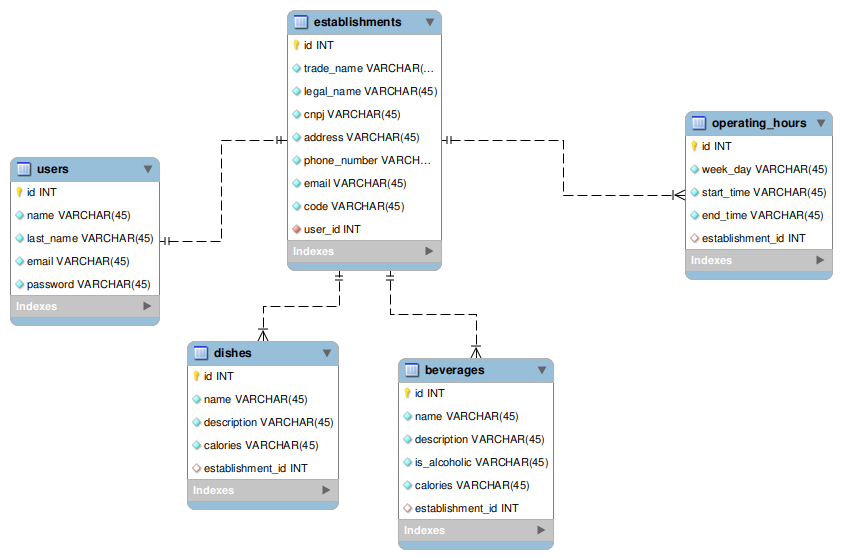
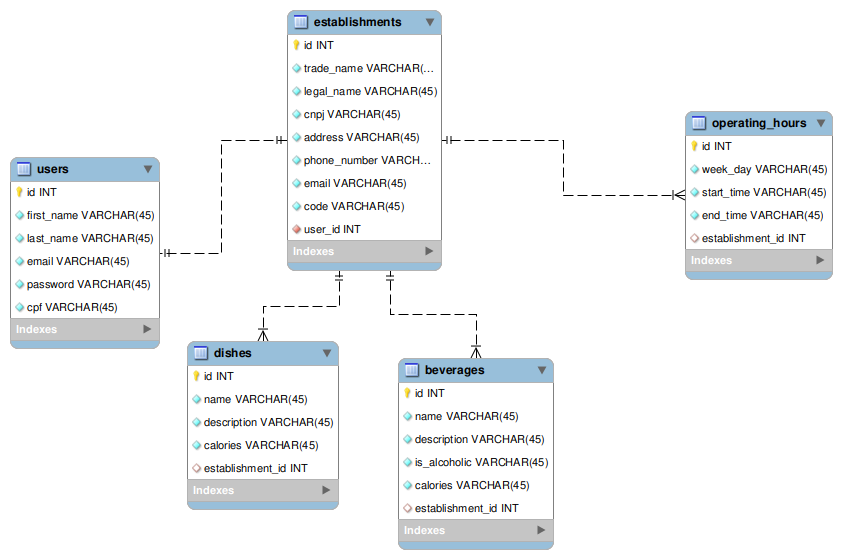
feat: cria arquivo de configuração de locale

Changed region(s): [[0.0, 0.517, 0.2162, 0.6386], [0.0309, 0.3649, 0.1853, 0.3953], [0.1853, 0.4258, 0.2162, 0.4562]]

diff --git a/spec/system/users/user_sign_in_spec.rb b/spec/system/users/user_sign_in_spec.rb
@@ -1,0 +1,16 @@
+require 'rails_helper'
+
+describe 'Usuário acessa página de login' do
+  it 'e faz login com sucesso' do
+    # Arrange
+    user = User.create!(first_name: 'Samuel', last_name: 'Rocha', email: 'samuel@hotmail.com', password: '12345678910111',  cpf: '03466588911')
+    # Act
+    visit root_path
+    fill_in "E-mail",	with: "samuel@hotmail.com" 
+    fill_in "Senha",	with: "12345678910111"
+    click_on 'Login'
+    # Assert
+    expect(current_path).to eq root_path
+    expect(page).to have_content "#{user.first_name} #{user.last_name} - #{user.email}"
+  end
+end

diff --git a/config/initializers/locale.rb b/config/initializers/locale.rb
@@ -1,0 +1,4 @@
+I18n.available_locales = [:en, :'pt-BR']
+
+# Set default locale to something other than :en
+I18n.default_locale = :'pt-BR'
